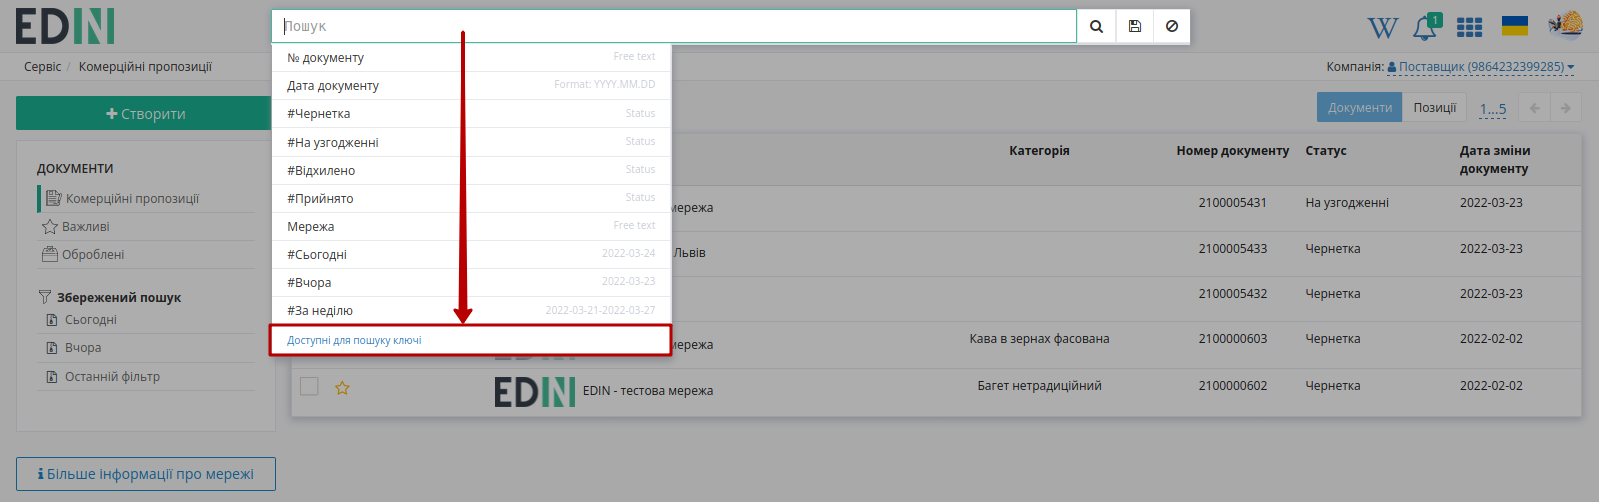
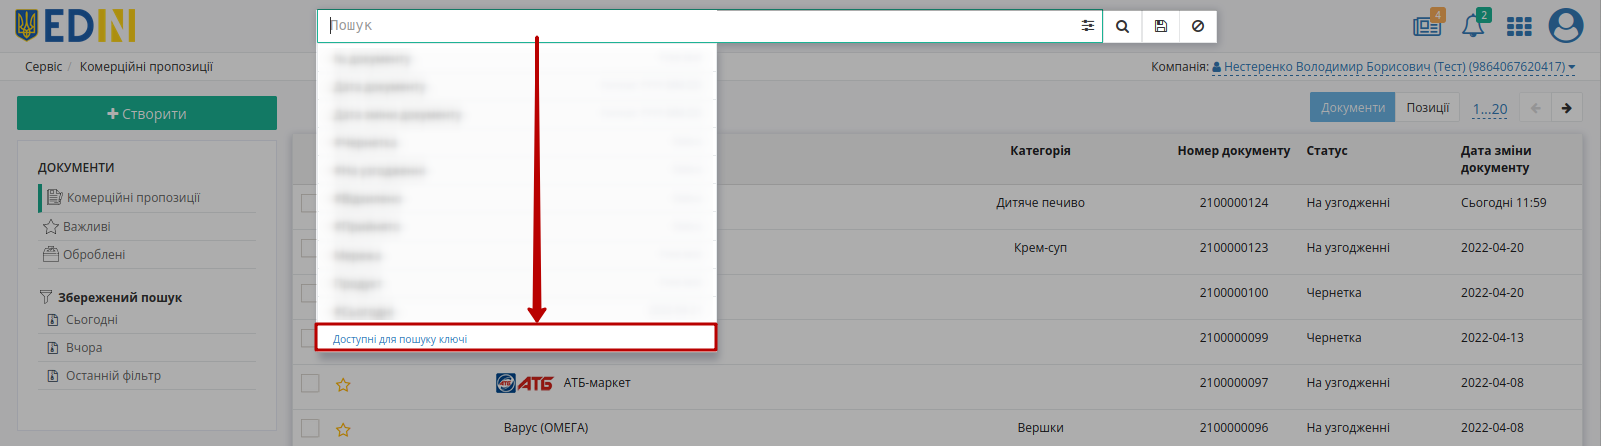
Commercial_offers_new_search

diff --git a/docs/Commercial_offers/Instructions/Commercial_offers_postachalnik.rst b/docs/Commercial_offers/Instructions/Commercial_offers_postachalnik.rst
@@ -23,6 +23,8 @@
 
 .. |star| image:: pics_Commercial_offers/Commercial_offers_038.png
 
+.. |advserch| image:: pics_Commercial_offers/Commercial_offers_060.png
+
 .. role:: red
 
 .. role:: green
@@ -166,18 +168,26 @@
 **Пошук**
 ------------------------------
 
-Функціональне поле **"Пошуку"** використовує наступні Доступні для пошуку ключі:
+Пошук документів/позицій в сервісі **Комерційна пропозиція** виконується через рядок **"Пошуку"**:
+
+.. image:: pics_Commercial_offers/Commercial_offers_066.png
+   :align: center
+
+----------------------------------------------------------------------------------------------------
+
+1) Рядок пошуку можливо заповнити, обираючи **"Доступні для пошуку ключі"**:
 
 .. image:: pics_Commercial_offers/Commercial_offers_040.png
    :align: center
 
-В залежності від того, який журнал відкрито (**Документи** чи **Позиції**) ключі пошуку будуть відрізнятись:
+.. note::
+   В залежності від того, який журнал відкрито (**Документи** чи **Позиції**) ключі пошуку будуть відрізнятись:
 
-.. image:: pics_Commercial_offers/Commercial_offers_042.png
-   :width: 500
+   .. image:: pics_Commercial_offers/Commercial_offers_042.png
+      :width: 500
 
-.. image:: pics_Commercial_offers/Commercial_offers_041.png
-   :width: 500
+   .. image:: pics_Commercial_offers/Commercial_offers_041.png
+      :width: 500
 
 Можливо обрати параметр зі списку/підказки чи почати вводити пошукове значення (система автоматично вкаже на можливі параметри): 
 
@@ -191,6 +201,41 @@
 .. image:: pics_Commercial_offers/Commercial_offers_044.gif
    :align: center
 
+2) Також заповнити рядок пошуку можливо за допомогою набору фільтрів **"Розширеного пошуку"** (|advserch|):
+
+.. note::
+   В залежності від того, який журнал відкрито (**Документи** чи **Позиції**) меню пошуку буде відрізнятись:
+
+   .. image:: pics_Commercial_offers/Commercial_offers_061.png
+      :align: center
+
+            
+
+   .. image:: pics_Commercial_offers/Commercial_offers_062.png
+      :align: center
+
+Деякі поля містять підказки, що показуються при наведенні курсора на назву параметра:
+
+.. image:: pics_Commercial_offers/Commercial_offers_063.png
+   :align: center
+
+Пошук працює тільки за повним збігом.
+
+----------------------------------------------------------------------------------------------------
+
+Окремо винесені фільтри документів по даті (**"Сьогодні"**, **"Вчора"**), а останній введений пошук зберігається платформою автоматично і при натисканні кнопки **"Останній фільтр"** він виконується повторно:
+
+.. image:: pics_Commercial_offers/Commercial_offers_064.png
+   :align: center
+
+Також можливо перманентно **Зберегти** данні власного рядку пошуку, натиснувши на іконку дискети. Переглянути збережений пошук можливо в блоці **Збережений пошук**. Вилучити збережений пошук можна за допомогою хрестика.
+
+.. image:: pics_Commercial_offers/Commercial_offers_065.png
+   :align: center
+
 ----------------------------------
 
 .. include:: /_constant/kontakti.rst
+
+
+
